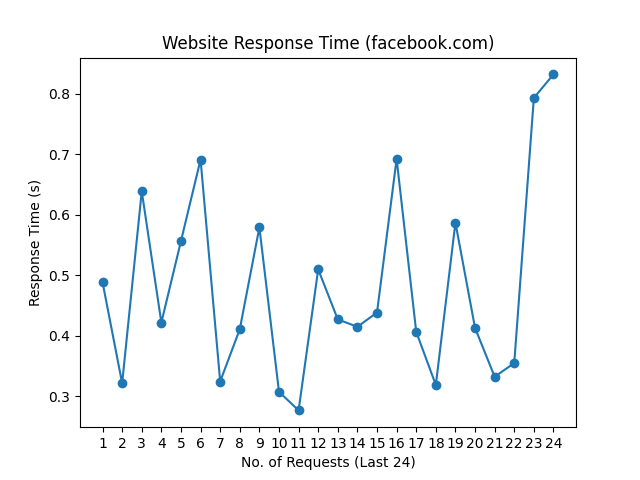
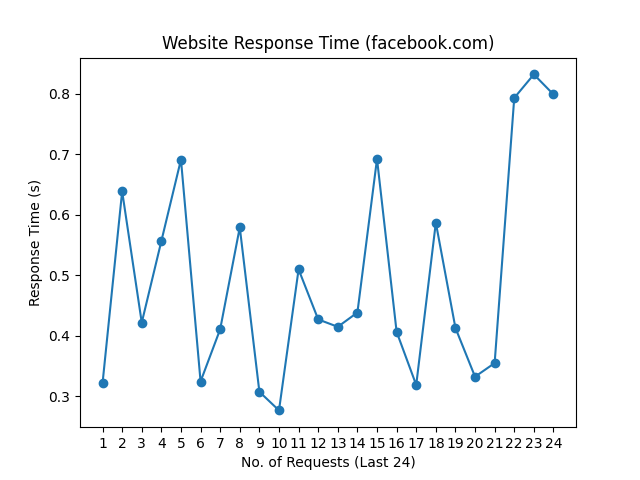
update README.md, history and graph

Changed region(s): [[0.1562, 0.125, 0.875, 0.875]]

diff --git a/README.md b/README.md
@@ -1,10 +1,10 @@
 # Web Monitoring
 
-Last Checked: 09/09/2023 08:57
+Last Checked: 10/09/2023 09:02
 
 | Website | Response Time (s) | Status | Avg Uptime (%) |
 |---------|-------------------|--------|----------------|
 | www.thiswebsiteisdown.net | 0 <br> <img src="graph/thiswebsiteisdown.net.png" alt="Graph" width="200" height="200">  | ❌ Down | 0.00 |
-| www.netflix.com | 1.052202 <br> <img src="graph/netflix.com.png" alt="Graph" width="200" height="200">  | ✅ Up | 100.00 |
-| www.google.com | 0.113348 <br> <img src="graph/google.com.png" alt="Graph" width="200" height="200">  | ✅ Up | 100.00 |
-| www.facebook.com | 0.831791 <br> <img src="graph/facebook.com.png" alt="Graph" width="200" height="200">  | ✅ Up | 100.00 |
+| www.netflix.com | 1.125425 <br> <img src="graph/netflix.com.png" alt="Graph" width="200" height="200">  | ✅ Up | 100.00 |
+| www.google.com | 0.098490 <br> <img src="graph/google.com.png" alt="Graph" width="200" height="200">  | ✅ Up | 100.00 |
+| www.facebook.com | 0.798683 <br> <img src="graph/facebook.com.png" alt="Graph" width="200" height="200">  | ✅ Up | 100.00 |
